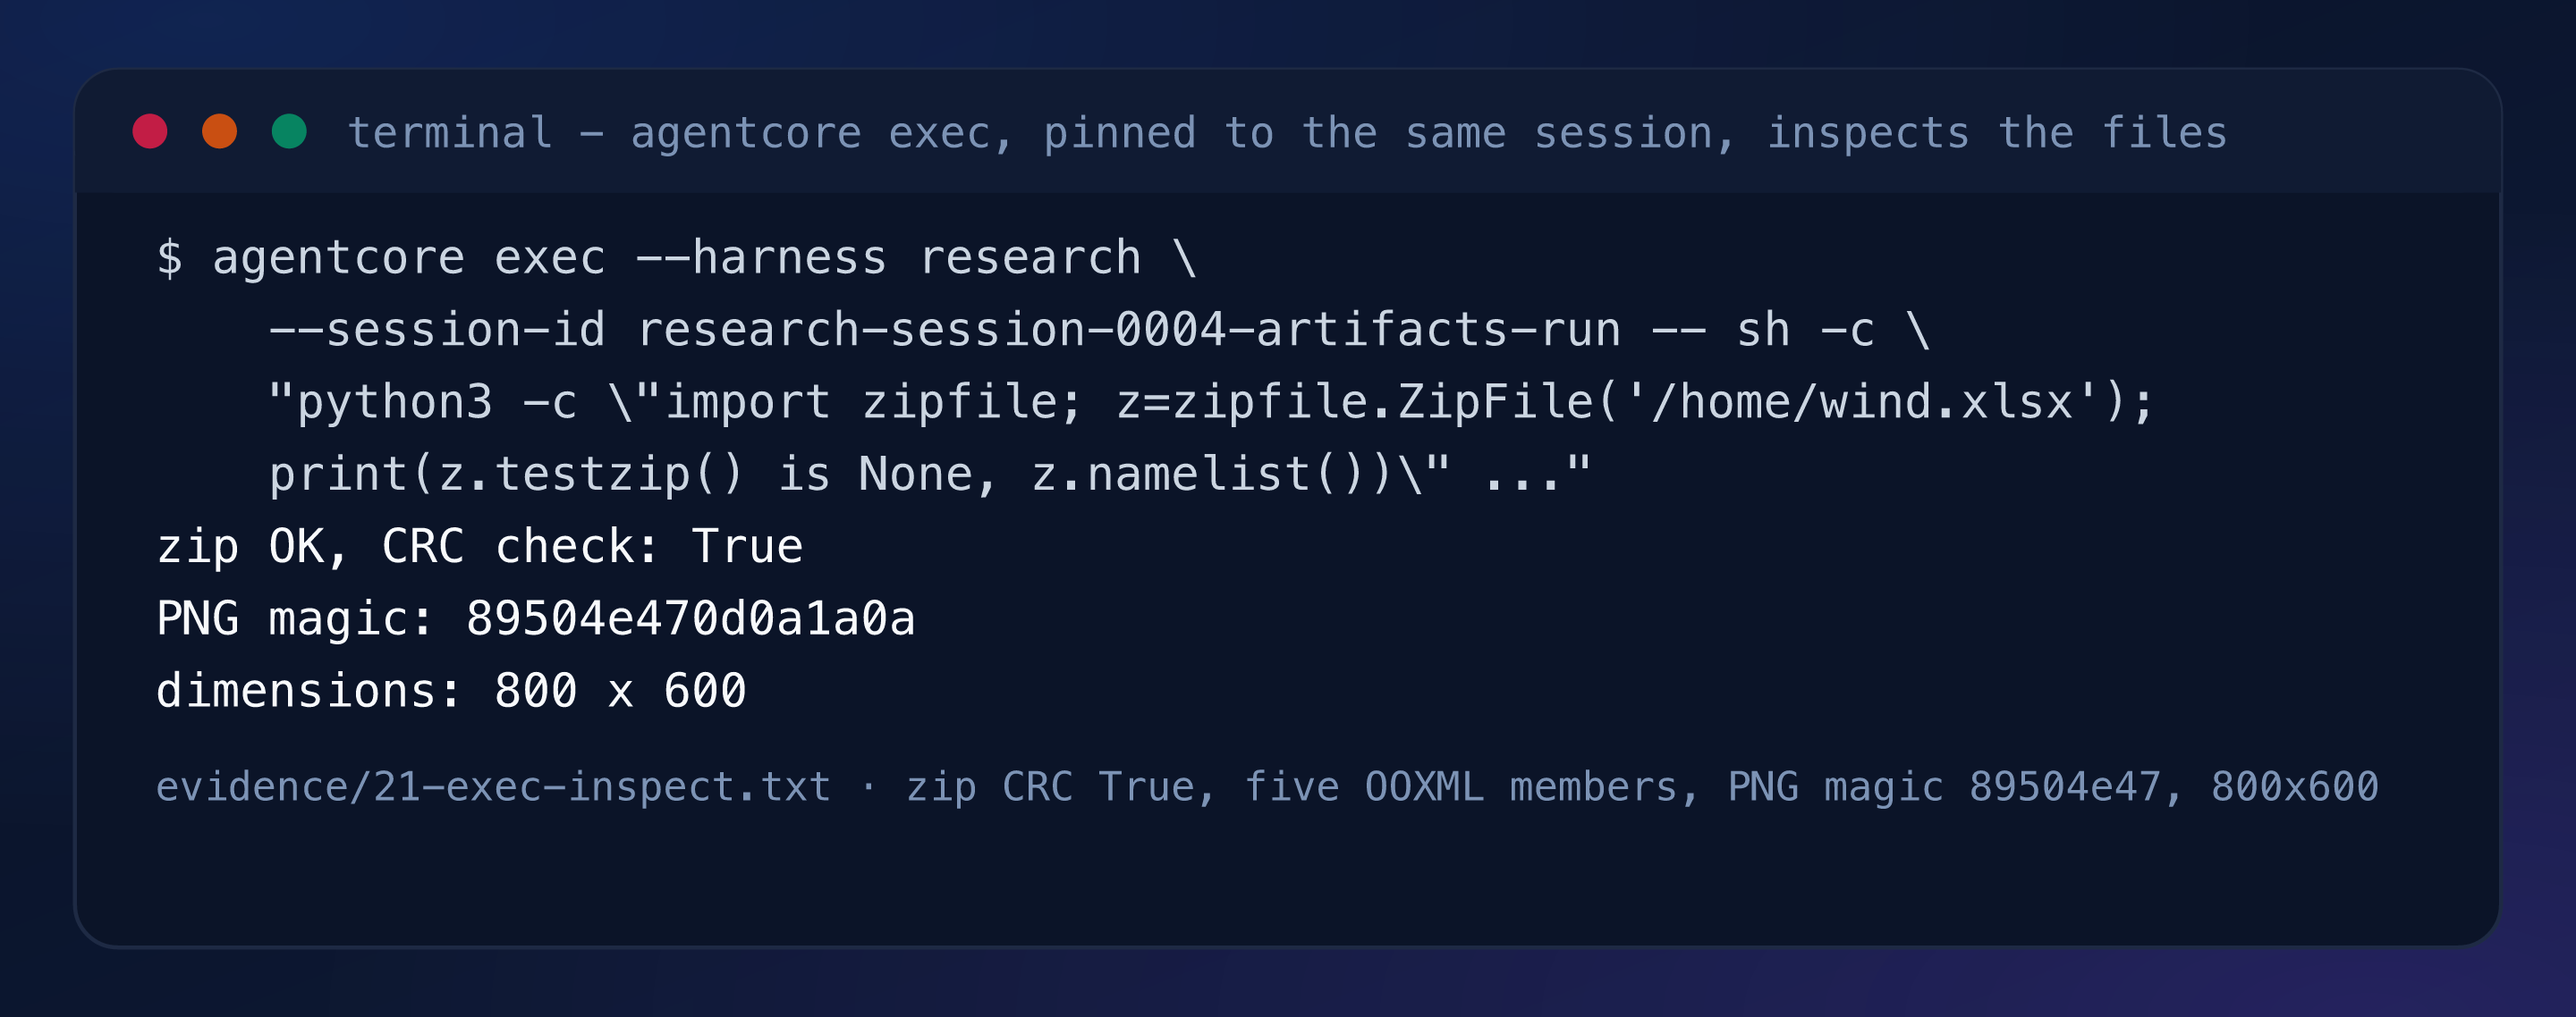
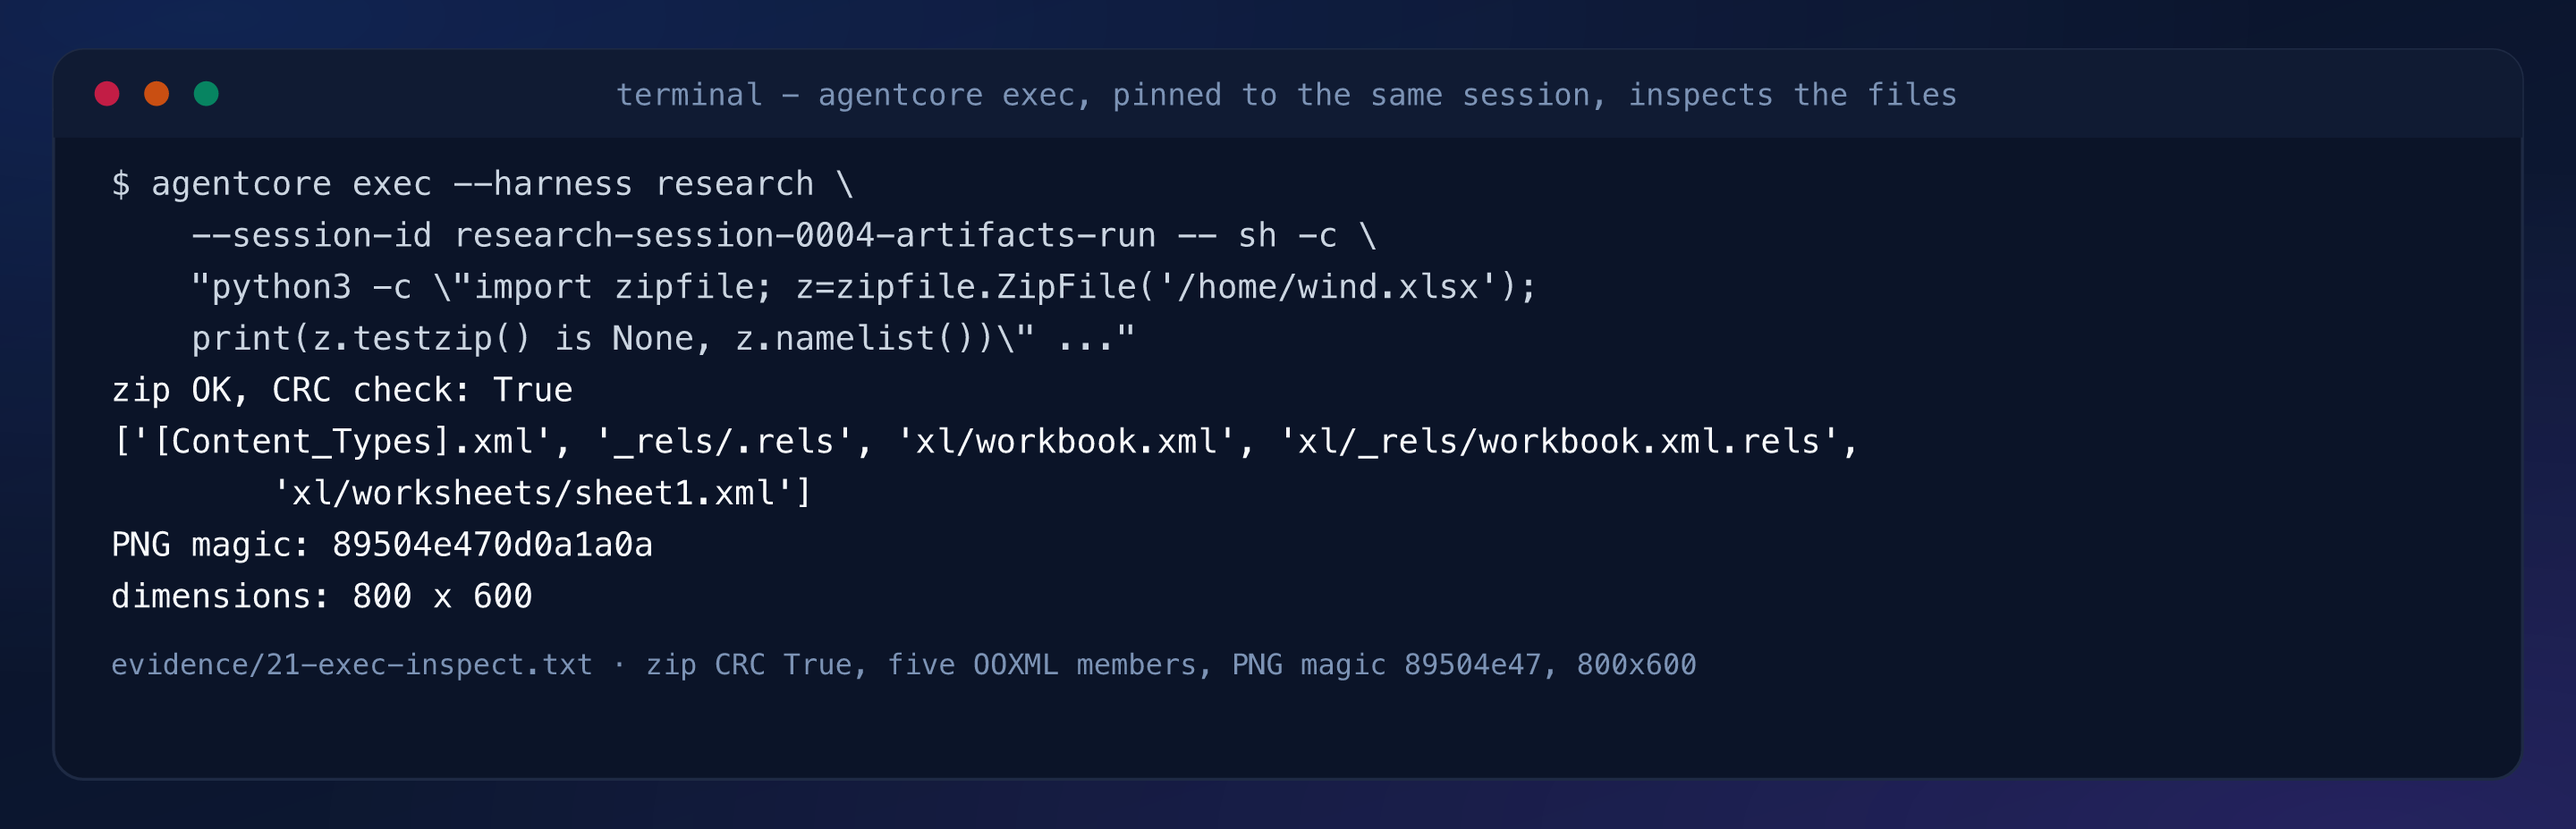
uc05 figures: make each panel show what its caption claims
S2 promised a second deploy and showed only the add-tool output; the deploy
lines from evidence 18 are now in the panel. S5 promised the five OOXML members
and the list was filtered out by a suffix test that never matched. S4 and S7
promised 6 code_interpreter errors, 11 shell successes and two adjacent chat
models, but evidence_lines folded consecutive duplicate rows, so the listing
showed one row per type and sorted(set()) reordered the rest.

Span listings now pass fold=False, S4 keeps every execute_tool and mcp row
(24 of the 100 rows, counted from the capture) and says so in its caption.

diff --git a/articles/images/agentcore-research-agent-harness/gen_figures.py b/articles/images/agentcore-research-agent-harness/gen_figures.py
@@ -55,7 +55,7 @@ def wrap(lines: list[tuple[str, str]], width: int = PANEL_WIDTH) -> list[tuple[s
     return out
 
 
-def evidence_lines(stem: str) -> list[str]:
+def evidence_lines(stem: str, fold: bool = True) -> list[str]:
     """The captured output in an evidence file, headers and spinners removed."""
     raw = (EVIDENCE / stem).read_text(encoding="utf-8")
     # spinner frames ride on carriage returns: split on \r as well as \n
@@ -72,7 +72,10 @@ def evidence_lines(stem: str) -> list[str]:
         line = line.replace("\t", "  ")
         line = "".join(ch for ch in line if ord(ch) >= 32)
         out.append(line.rstrip())
-    # drop consecutive duplicates the CLI spinner re-prints
+    # drop consecutive duplicates the CLI spinner re-prints; a span listing is
+    # data, not a redraw, so it passes fold=False and keeps every row
+    if not fold:
+        return out
     dedup = []
     for line in out:
         if dedup and dedup[-1] == line:
@@ -489,14 +492,20 @@ def panels() -> None:
         "evidence/15-deploy-2.log · one stack: gateway with its web-search target, the harness, its runtime",
     )
     ev17 = evidence_lines("17-add-gwtool.txt")
+    ev18 = evidence_lines("18-deploy-2.log")
     shell_box(
         "S2-gwtool", "terminal - wire the gateway to the harness as a tool, deploy again",
         panel_lines(
             ["$ agentcore add tool --harness research --type agentcore_gateway --name websearch \\",
              "    --gateway research-gateway --outbound-auth none"],
             [l for l in ev17 if "Added" in l or "deploy" in l],
+        )
+        + panel_lines(
+            ["$ agentcore deploy -y --target default        # 2 m 3 s"],
+            [l for l in ev18 if "Deployed to" in l or "VersionOutput" in l
+             or "StatusOutput" in l or "GatewayArnOutput" in l],
         ),
-        "evidence/17-add-gwtool.txt · the gateway resolves to its ARN from deployed state",
+        "evidence/17, 18 · the gateway resolves to its ARN from deployed state, harness version 2 READY",
     )
     ev20 = evidence_lines("20-invoke-final.txt")
     shell_box(
@@ -512,22 +521,26 @@ def panels() -> None:
         ),
         "evidence/20-invoke-final.txt · the full answer names both files with their byte sizes",
     )
-    ev22 = evidence_lines("22-spans-final.txt")
+    # the capture is 100 rows; tabs are already two spaces by now, so the tool
+    # rows are selected on the doubled space between the timestamp and the name
+    ev22 = evidence_lines("22-spans-final.txt", fold=False)
+    tool_rows = [l for l in ev22 if "  execute_tool " in l or "  mcp tools/" in l]
     shell_box(
-        "S4-spans", "terminal - the span listing for that one session",
+        "S4-spans", "terminal - the tool spans in that one session",
         panel_lines(
             ["$ aws logs filter-log-events --region us-east-1 \\",
              "    --log-group-name aws/spans --start-time <ms> \\",
              '''    --query "events[].message" --output json | jq -r ".[]" | jq -r ''',
              '''    'select(."attributes"."session.id"? == "research-session-0004-artifacts-run")''',
              '''    | [.name, ."attributes"."gen_ai.tool.status"] | @tsv"' '''],
-            ev22,
+            tool_rows,
         ),
-        "evidence/22-spans-final.txt · websearch and browser success, code_interpreter errors, shell successes",
+        f"evidence/22-spans-final.txt · {len(tool_rows)} of {len(ev22)} rows: every tool call, "
+        "6 code_interpreter errors, 11 shell successes",
     )
     ev21 = evidence_lines("21-exec-inspect.txt")
     keep = [l for l in ev21 if ("zip OK" in l or "PNG magic" in l or "dimensions" in l
-                                or l.strip().endswith(".xml") or l.strip().endswith(".rels"))]
+                                or (l.strip().startswith("[") and ".xml" in l))]
     shell_box(
         "S5-exec", "terminal - agentcore exec, pinned to the same session, inspects the files",
         panel_lines(
@@ -557,14 +570,14 @@ def panels() -> None:
         ),
         "evidence/30, 31, 32 · both answers name India at 5.1%, one harness version apart",
     )
-    ev33 = evidence_lines("33-spans-after-switch.txt")
+    ev33 = evidence_lines("33-spans-after-switch.txt", fold=False)
     shell_box(
         "S7-spans-after", "terminal - spans after the switch: two chat models, no new tool calls",
         panel_lines(
             ["$ aws logs filter-log-events ... --query 'events[].message' --output json \\",
              "  | jq -r '.[] | fromjson? | select(.\"attributes\".\"session.id\"? == \"research-session-0004-artifacts-run\")",
              "  | [.name, .\"attributes\".\"gen_ai.tool.status\"] | @tsv'"],
-            sorted(set(ev33)),
+            ev33,
         ),
         "evidence/33-spans-after-switch.txt · chat deepseek.v3.2 and chat amazon.nova-lite-v1:0 share the session",
     )
